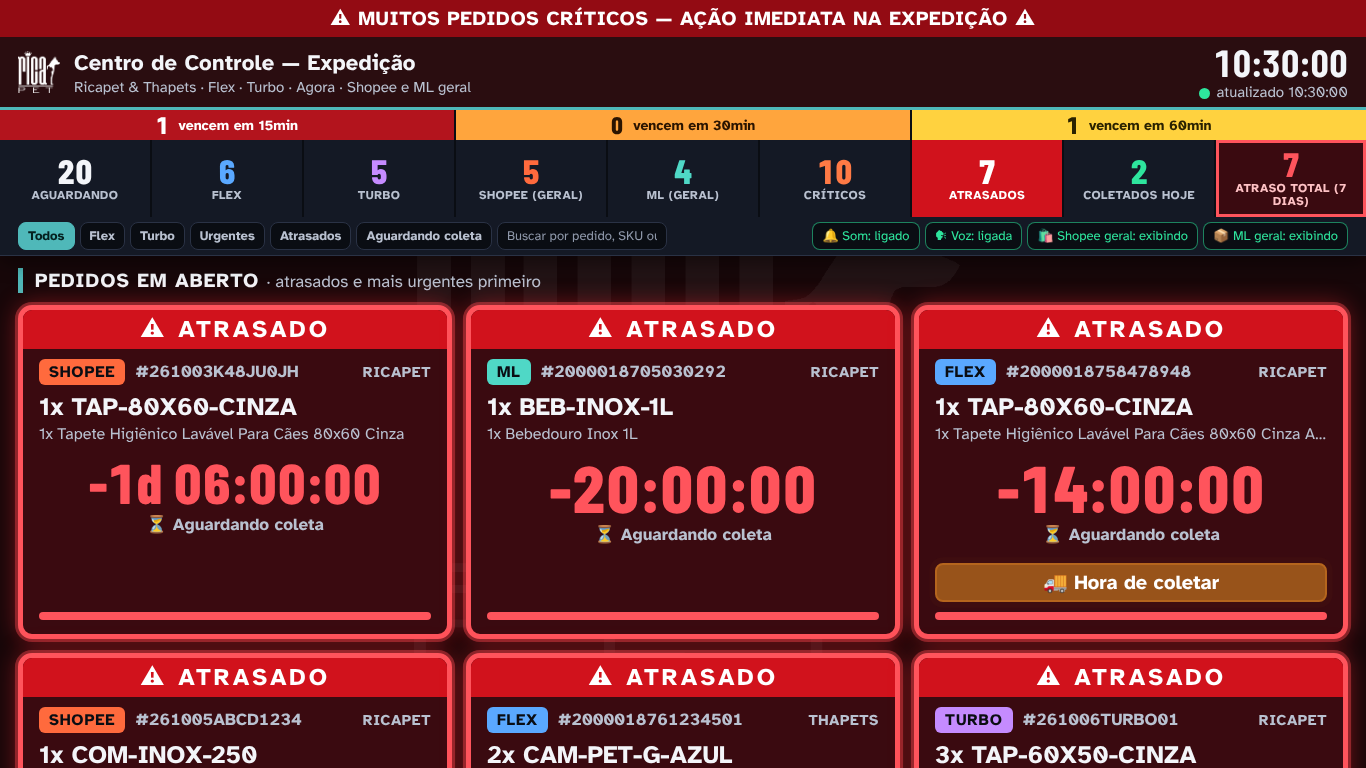
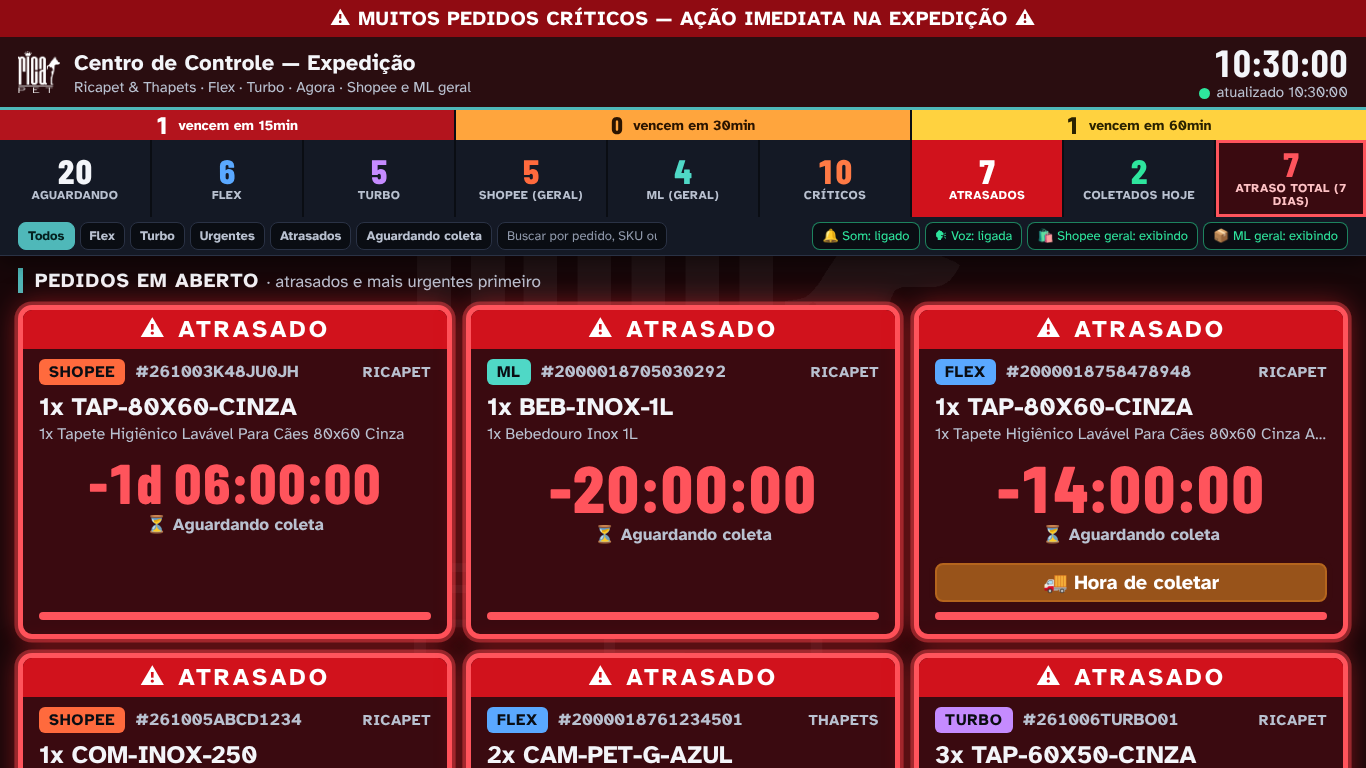
Painel TV: borda neutra nos cards no prazo, pra não esconder o atrasado
Em produção dezenas de cards ML geral dividem o mesmo prazo (próximo 16h)
e ficavam todos com a mesma borda laranja, virando ruído. Zonas verde,
amarelo e laranja agora têm borda neutra + faixa fina lateral; cor forte
na borda só em < 2h (coral) e atrasado (vermelho). Novo print com volume
alto (90 pedidos, 1 atrasado), parecido com o da TV de produção.

Claude-Session: https://claude.ai/code/session_017tQnobrgpQ8bAz76cpVHBL

diff --git a/public/tv.html b/public/tv.html
@@ -146,9 +146,14 @@
     display: flex; flex-direction: column;
     transition: border-color 0.3s, background 0.3s;
   }
-  .card-pedido.zona-verde { border-color: var(--verde); }
-  .card-pedido.zona-amarelo { border-color: var(--amarelo); }
-  .card-pedido.zona-laranja { border-color: var(--laranja); }
+  /* Zonas "no prazo"/"vence hoje"/"< 3h": borda neutra, cor só no contador
+     e numa faixa fina à esquerda. Em produção dezenas de cards ML geral
+     dividem o mesmo prazo (próximo 16h) e ficavam todos com a mesma borda
+     colorida — viravam ruído e escondiam o atrasado. Borda forte só a
+     partir de < 2h (coral) e no atrasado (vermelho). */
+  .card-pedido.zona-verde { box-shadow: inset 6px 0 0 var(--verde); }
+  .card-pedido.zona-amarelo { box-shadow: inset 6px 0 0 var(--amarelo); }
+  .card-pedido.zona-laranja { box-shadow: inset 6px 0 0 var(--laranja); }
   .card-pedido.zona-vermelho { border-color: var(--vermelho); background: var(--card-2); }
 
   /* ===== ATRASADO (zona "preto") — o elemento mais chamativo da tela =====
